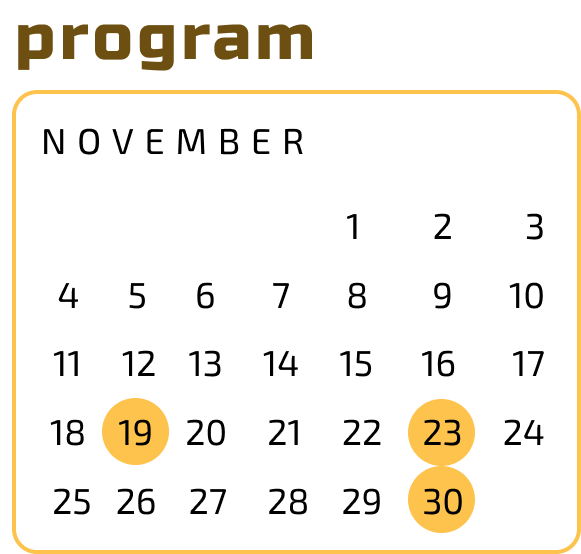
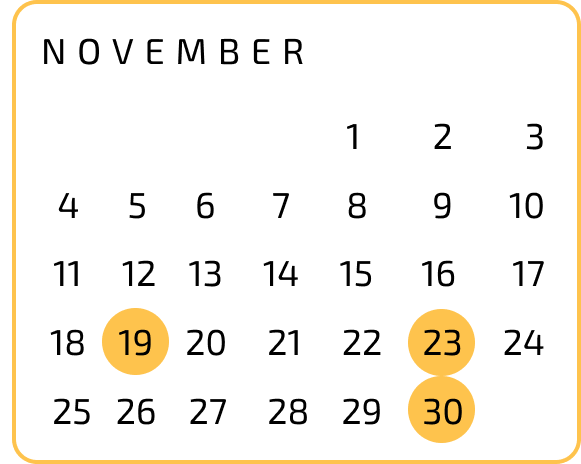
news finished

diff --git a/news.html b/news.html
@@ -1,0 +1,86 @@
+<!DOCTYPE html>
+<html lang="en">
+<head>
+    <meta charset="UTF-8">
+    <meta name="viewport" content="width=device-width, initial-scale=1.0">
+    <meta name="description" content="Home page for Community Science Museum in Trondheim, Norway. Come join us at the Community Science Museum where we are committed to making science accessible to all.">
+    <title>CS Museum | Home</title>
+<!--favicon-->
+    <link rel="icon" type="image/png" sizes="16x16" href="assets/favicon-16x16.png">
+    <link rel="icon" type="image/png" sizes="32x32" href="assets/favicon-32x32.png">
+    <link rel="icon" type="image/png" sizes="192x192" href="assets/android-chrome-192x192.png">
+    <link rel="icon" type="image/png" sizes="512x512" href="assets/android-chrome-512x512.png">
+<!--icon for hamburger menu-->
+    <script src="https://kit.fontawesome.com/4b71fec88a.js" crossorigin="anonymous"></script>
+<!--font sources-->
+    <style>
+        @import url('https://fonts.googleapis.com/css2?family=Exo+2:ital,wght@0,100..900;1,100..900&family=Russo+One&display=swap');
+        </style>
+<!--stylesheet-->
+    <link href="css/news.css" rel="stylesheet">
+</head>
+<body>
+    <header>
+        <a href="../"><img alt="Logo for Community Science Museum." src="images/logo-name.png" class="logo"></a>
+        <input type="checkbox" id="hamburger-menu">
+        <label for="hamburger-menu" class="hamburger"><i class="fa-solid fa-bars" style="color: #003d3d;"></i></label>
+        <nav>
+            <ul>
+                <li><a href="about.html">About</a></li>
+                <li><a href="exhibitions.html">Exhibitions</a></li>
+                <li><a href="news.html">News</a></li>
+                <li><a href="visit.html" class="nav-visit">visit</a></li>
+            </ul>
+        </nav>
+    </header>
+    <main>
+        <div class="grid-container">
+        <h1>news</h1>
+        <div class="card1">
+            <p class="date">19/11-24</p>
+            <h2>Visiting Professor of Aeronautics</h2>
+            <p>It is our pleasure to announce that Prof Sheila Widnall from the Massachusetts Institute of Technology will be delivering 3 lectures on the development of aeronautics and where the future lies in this exciting ‘space’.</p>
+        </div>
+        <div class="card2">
+            <p class="date">23/11-24</p>
+            <h2>Energetica Exhibition on Loan</h2>
+            <p>On loan from the NEMO Science Museum in Amsterdam, the Energetica exhibition is coming to the Community Science Museum. It’s a series of installations that allow visitors to experience the power of the elements as we harness them. From solar energy powering lighting, to ‘Wind Island’ that shows how turbines are able to use and control wind to create power.</p>
+        </div>
+        <div class="card3">
+            <p class="date">30/11-24</p>
+            <h2>Night in the museum</h2>
+            <p>Get your family together for an exciting night in the museum as you sleep over beside dinosaurs and science displays. Bring your own sleeping bag and get ready to rough it as we go exploring the wonders of science.</p>
+        </div>
+        <h3>program</h3>
+        <img src="assets/calendar.png" class="calendar" alt="Event calendar. Planned events for November are on the nineteenth, twenty-third and thirtieth.">
+        </div>
+    </main>
+    <footer>
+        <img src="images/logo-name.png" alt="Logo for Community Science Museum.">
+        <p class="slogan">Explore together!</p>
+        <address>
+            <p class="footer-title">Contact</p>
+            <p>Kongens gate 1</p>
+            <p>7011 Trondheim</p><br>
+            <p>cs.museum@csm.org</p>
+            <p>56 73 48 59</p>
+        </address>
+        <div class="hours">
+            <p class="footer-title">Opening hours</p>
+            <p>Monday: Closed</p>
+            <p>Tuesday: 10:00 - 16:00</p>
+            <p>Wednesday: 10:00 - 16:00</p>
+            <p>Thursday: 10:00 - 16:00</p>
+            <p>Friday: 10:00 - 19:00</p>
+            <p>Saturday: 9:00 - 16:00</p>
+            <p>Sunday: 9:00 - 13:00</p>
+        </div>
+    </footer>
+    <ul class="socmed">
+        <li><i class="fa-brands fa-facebook" style="color: #003d3d;"></i></li>
+        <li><i class="fa-brands fa-instagram" style="color: #003d3d;"></i></li>
+        <li><i class="fa-brands fa-tiktok" style="color: #003d3d;"></i></li>
+        <li><i class="fa-brands fa-square-youtube" style="color: #003d3d;"></i></li>
+    </ul>
+</body>
+</html>

diff --git a/css/news.css b/css/news.css
@@ -61,8 +61,87 @@ header a img {
     font-weight: 400;
     text-decoration: underline;
 }
-
-
+main{
+    margin: 40px;
+}
+.grid-container{
+    display: grid;
+    grid-template-areas: 
+        "news program"
+        "card1 calendar"
+        "card2 calendar"
+        "card3 calendar";
+    grid-template-columns: auto auto;
+    grid-template-rows: auto auto auto auto;
+    column-gap: 45px;
+}
+h1{
+    grid-area: news;
+    color: #003D3D;
+    font-family: "Russo One";
+    font-size: 64px;
+    font-style: normal;
+    font-weight: 400;
+    line-height: normal;
+    letter-spacing: 4.48px;
+}
+h2{
+    color: #383838;
+    font-family: "Exo 2";
+    font-size: 32px;
+    font-style: normal;
+    font-weight: 400;
+    line-height: normal;
+}
+h3{
+    color: #6E4F12;
+    font-family: "Russo One";
+    font-size: 64px;
+    font-style: normal;
+    font-weight: 400;
+    line-height: normal;
+    letter-spacing: 4.48px;
+    grid-area: program;
+    margin-left: 10px;
+    margin-bottom: 20px;
+    align-self: flex-end;
+}
+main p{
+    color: #383838;
+    font-family: "Exo 2";
+    font-size: 20px;
+    font-style: normal;
+    font-weight: 400;
+    line-height: 35px;
+    margin-top: 10px;
+}
+.date{
+    color: rgba(56, 56, 56, 0.68);
+    font-family: "Exo 2";
+    font-size: 24px;
+    font-style: normal;
+    font-weight: 300;
+    line-height: normal;
+}
+.card1, .card2, .card3{
+    padding: 40px;
+    border-radius: 25px;
+    background: rgba(0, 0, 0, 0.07);
+    margin-bottom: 40px;
+}
+.card1{
+    grid-area: card1;
+}
+.card2{
+    grid-area: card2;
+}
+.card{
+    grid-area: card3;
+}
+.calendar{
+    grid-area: calendar;
+    max-width: 40vw;
+}
 footer{
     display: grid;
     grid-template-areas:
@@ -191,6 +270,20 @@ address{
     }
     nav li:last-child{
         padding: 40px 0;
+    }
+    .grid-container{
+        display: flex;
+        flex-direction: column;
+    }
+    h1, h3{
+        font-size: 56px;
+    }
+    h3{
+        align-self: center;
+    }
+    .calendar{
+        max-width: 280px;
+        align-self: center;
     }
     footer{
         display: flex;
